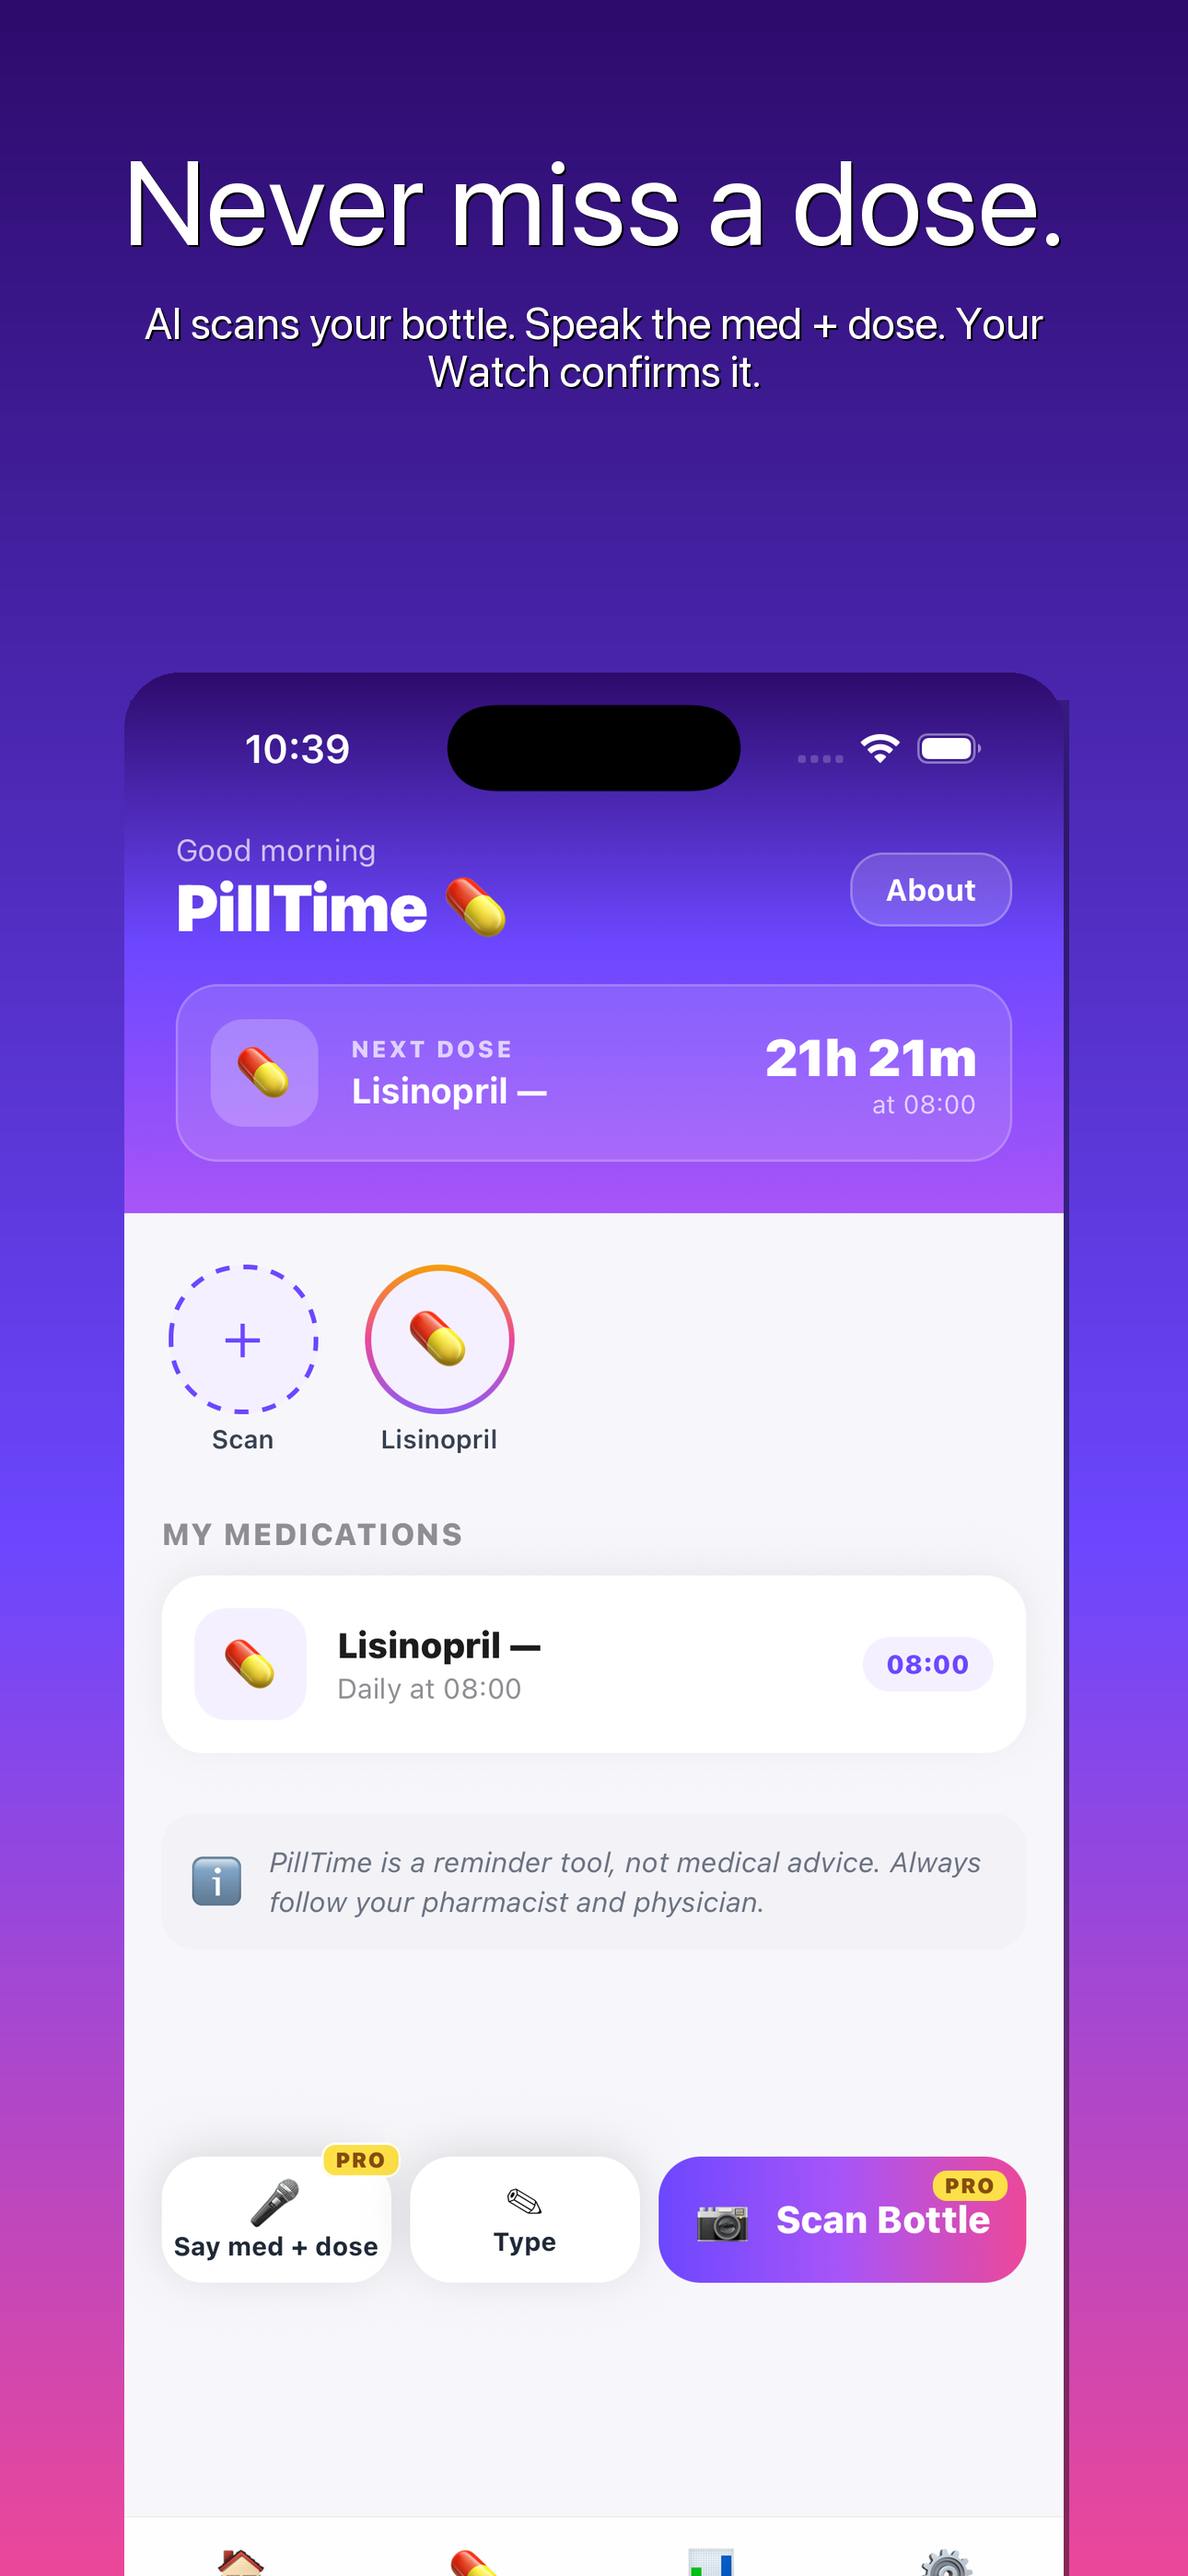
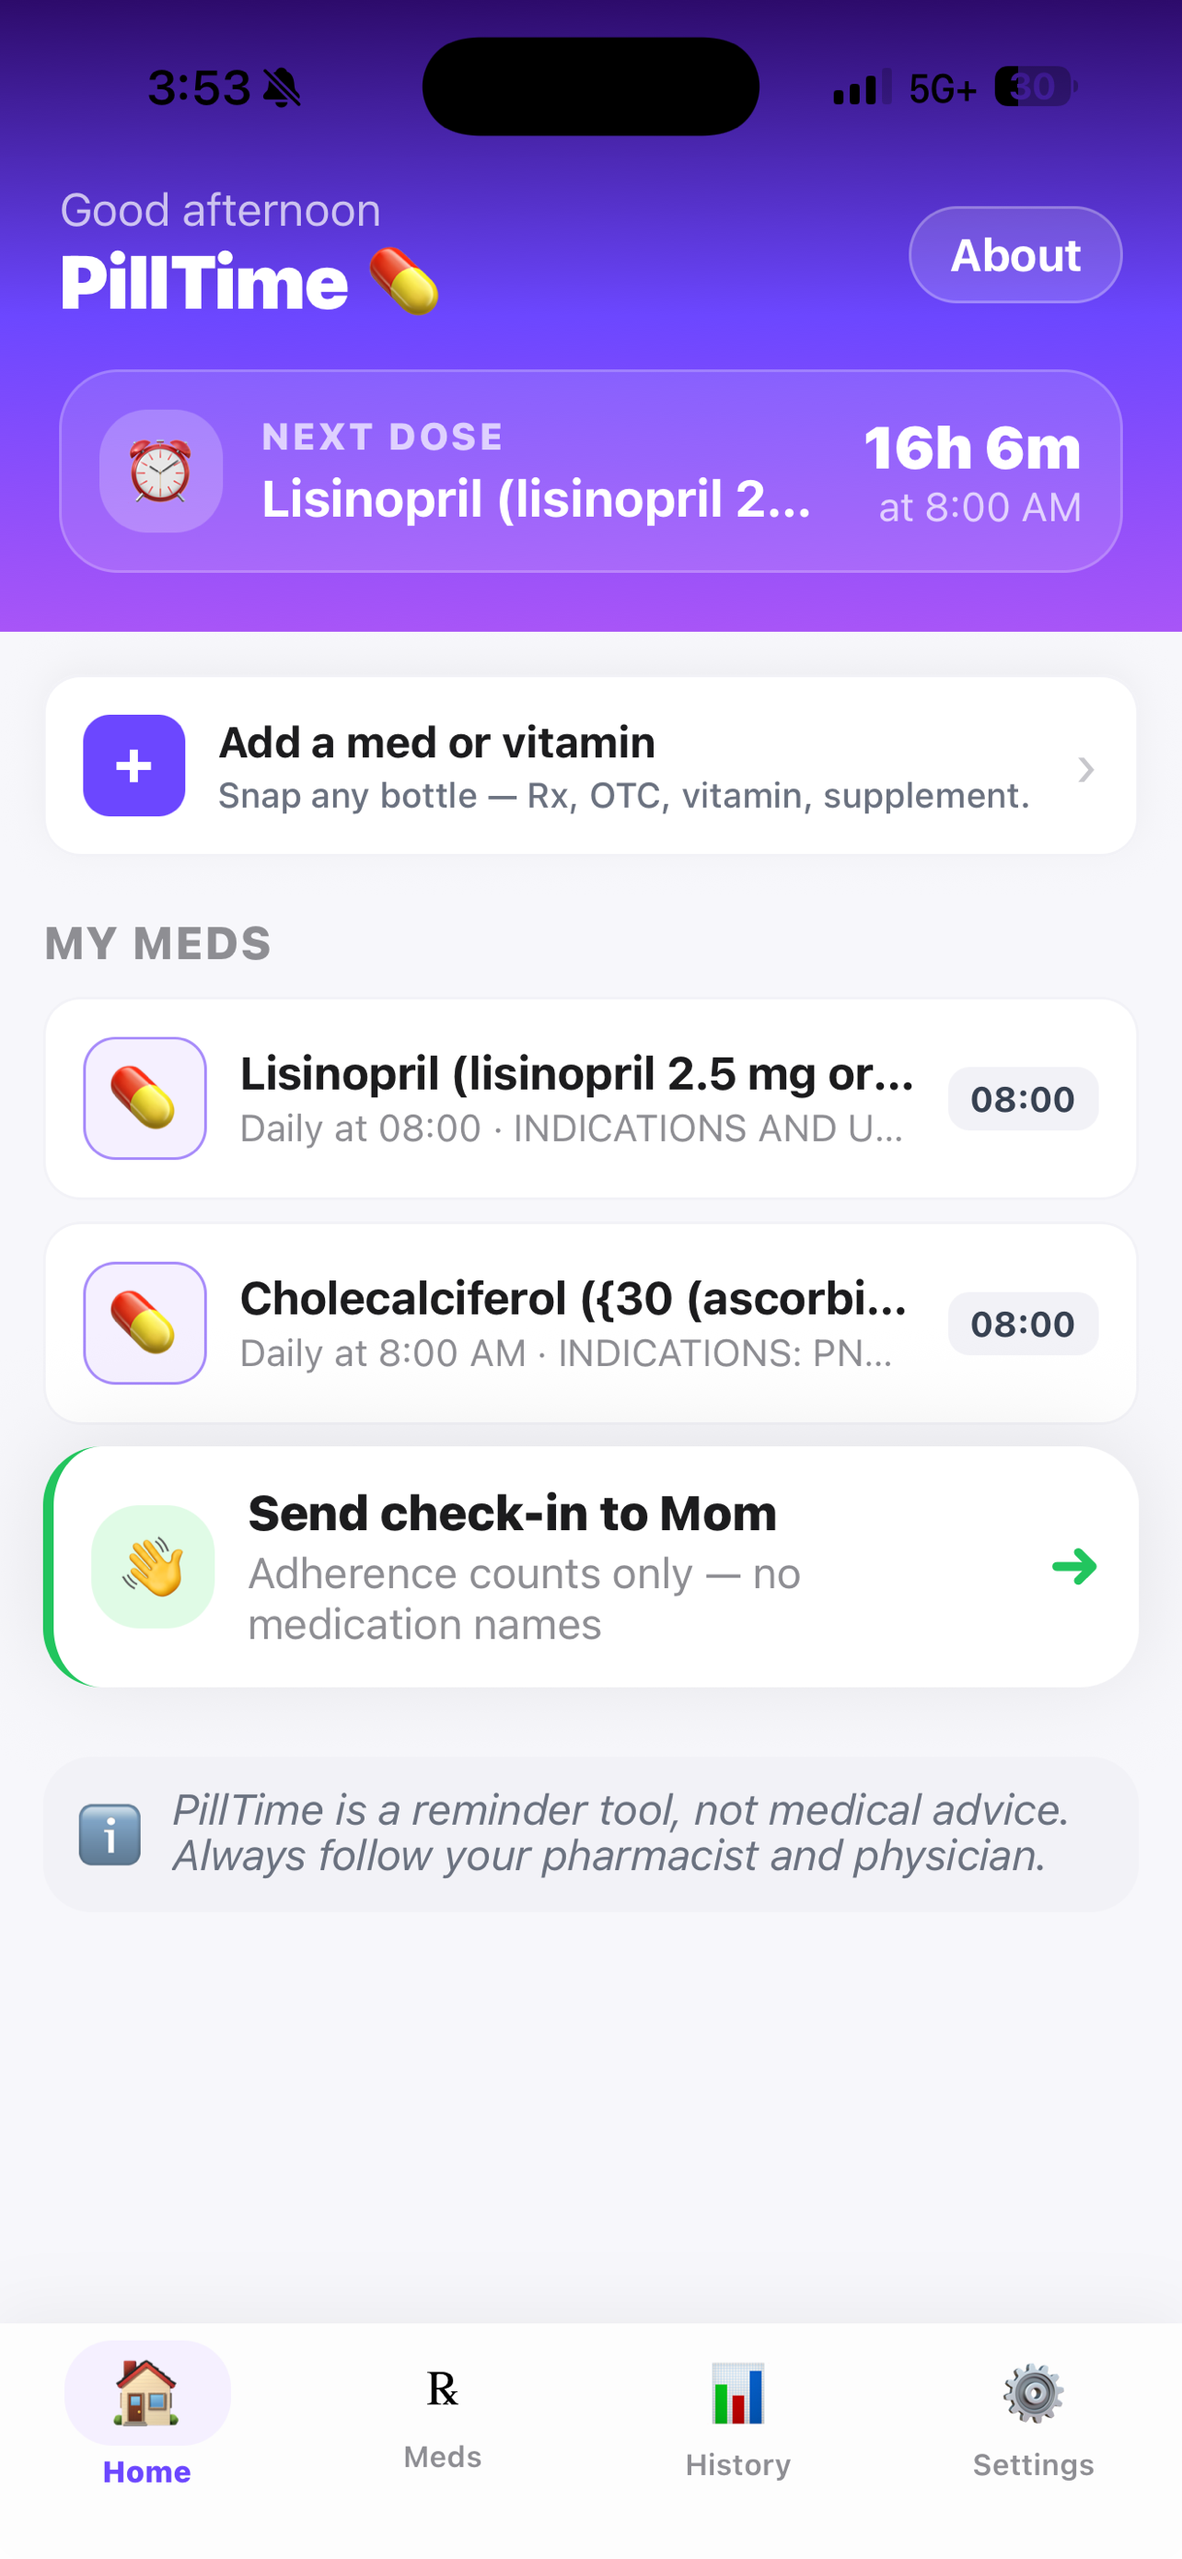
Refresh: real Notes screenshots + What's-New section + bio polish
- Replace PIL mockup screenshots with real iPhone screens from Notes
- Add "What's new" section: bottle-match gate, scroll wheel, insight
  card, faster Gemini→Haiku scanner
- Refresh screenshot captions to match latest UI labels
- Drop "Practicing" from Brett's bio header

diff --git a/index.html b/index.html
@@ -137,6 +137,43 @@
       margin: 6px auto 18px !important;
       letter-spacing: -0.3px;
     }
+    .features-grid {
+      display: grid;
+      grid-template-columns: repeat(2, 1fr);
+      gap: 20px;
+      margin-top: 36px;
+    }
+    @media (max-width: 720px) {
+      .features-grid { grid-template-columns: 1fr; }
+    }
+    .feature-card {
+      background: var(--card);
+      border-radius: 20px;
+      padding: 24px 22px;
+      box-shadow: 0 6px 24px rgba(91, 45, 255, 0.06);
+      border: 1px solid rgba(91, 45, 255, 0.06);
+    }
+    .feature-icon {
+      width: 52px; height: 52px;
+      border-radius: 16px;
+      display: flex; align-items: center; justify-content: center;
+      font-size: 26px;
+      margin-bottom: 14px;
+      color: white;
+    }
+    .feature-card h3 {
+      font-size: 18px;
+      font-weight: 800;
+      margin: 0 0 8px;
+      color: var(--ink);
+      letter-spacing: -0.2px;
+    }
+    .feature-card p {
+      font-size: 15px;
+      line-height: 1.6;
+      color: var(--ink-soft);
+      margin: 0;
+    }
 
     section { padding: 64px 0; }
     section h2 {
@@ -328,7 +365,7 @@
           <h3 class="founder-name">Dr. Brett Molina</h3>
           <span class="founder-credentials">MD · CO-FOUNDER</span>
           <p class="founder-bio">
-            Practicing physician and healthcare-software builder on a mission to change the face of healthcare. Brett has built and shipped two full healthcare-software companies that scaled to wildly popular adoption — and his software is currently in active use by one of the largest healthcare companies in America. In the operating room, his passion is for highly detailed, technically demanding surgeries that demand precision. That same precision is what he brings to PillTime: clinical workflow design, regulatory rigor, and the patient-side empathy that lets the app feel less like software and more like a doctor in your pocket.
+            Physician and healthcare-software builder on a mission to change the face of healthcare. Brett has built and shipped two full healthcare-software companies that scaled to wildly popular adoption — and his software is currently in active use by one of the largest healthcare companies in America. In the operating room, his passion is for highly detailed, technically demanding surgeries that demand precision. That same precision is what he brings to PillTime: clinical workflow design, regulatory rigor, and the patient-side empathy that lets the app feel less like software and more like a doctor in your pocket.
           </p>
         </div>
 
@@ -339,6 +376,42 @@
           <p class="founder-bio">
             Practicing physician with a deep focus on patient interaction and solving real-world problems patients face every day at the pharmacy counter, the bedside, and at home. Emon's passion for pharmaceuticals — and for closing the gap between what's prescribed and what's actually taken — is the clinical voice of PillTime. Every reminder, every safety check, every word of guidance was reviewed by him to make sure it's what a doctor would actually say.
           </p>
+        </div>
+      </div>
+    </div>
+  </section>
+
+  <section style="background: linear-gradient(155deg, #f2f4ff 0%, #ffffff 100%);">
+    <div class="container">
+      <div class="kicker">What's new</div>
+      <h2>Built for the way patients actually use it.</h2>
+      <p style="font-size:17px; color:var(--ink-soft); max-width:680px; margin-top:14px;">
+        Every release is shaped by what we see in clinic. Latest:
+      </p>
+
+      <div class="features-grid">
+        <div class="feature-card">
+          <div class="feature-icon" style="background: linear-gradient(135deg, #5B2DFF, #8B5CF6);">🛡</div>
+          <h3>Bottle-match safety gate</h3>
+          <p>Before any reminder is created, the app walks you through the dose strength and frequency printed on your bottle and asks you to confirm it matches what your physician prescribed. Required checkbox. No silent saves. A physician-built check, so a typo doesn't become a missed dose — or the wrong one.</p>
+        </div>
+
+        <div class="feature-card">
+          <div class="feature-icon" style="background: linear-gradient(135deg, #5B2DFF, #8B5CF6);">🎡</div>
+          <h3>Scroll-wheel pill count</h3>
+          <p>Picking the number of pills on hand now uses a smooth scroll wheel — no keyboard typos, no fat-finger fives that should have been twos. Inspired by the dose pickers patients actually trust.</p>
+        </div>
+
+        <div class="feature-card">
+          <div class="feature-icon" style="background: linear-gradient(135deg, #5B2DFF, #8B5CF6);">📈</div>
+          <h3>Your adherence at a glance</h3>
+          <p>Open History and the first thing you see is your own adherence percentage over the last 30 days, with the WHO baseline (~50% of chronic-disease patients miss doses) as context. Real motivation. Screenshot-worthy. Stays on your phone.</p>
+        </div>
+
+        <div class="feature-card">
+          <div class="feature-icon" style="background: linear-gradient(135deg, #5B2DFF, #8B5CF6);">⚡</div>
+          <h3>Faster, cheaper scanner</h3>
+          <p>The bottle scanner now runs on a 1–2 second AI tier with a quality fallback only when the label is genuinely tough — most bottles read instantly. No tier ever phones home with your medication.</p>
         </div>
       </div>
     </div>
@@ -355,23 +428,23 @@
       <div class="gallery">
         <a class="shot" href="screenshots/01-home.png" target="_blank" rel="noopener">
           <img src="screenshots/01-home.png" alt="PillTime Home — Never miss a dose" />
-          <div class="caption">Never miss a dose<small>Home · next-dose timer · scan · speak · type</small></div>
+          <div class="caption">Never miss a dose<small>Home · next-dose countdown · Rx + OTC + vitamin support</small></div>
         </a>
         <a class="shot" href="screenshots/02-scan.png" target="_blank" rel="noopener">
-          <img src="screenshots/02-scan.png" alt="PillTime Scan — Snap any bottle" />
-          <div class="caption">Snap any bottle<small>Multi-angle scan · privacy-first prompts</small></div>
+          <img src="screenshots/02-scan.png" alt="PillTime — three ways to add a med" />
+          <div class="caption">Three ways to add a med<small>Scan the bottle · say it out loud · type it in</small></div>
         </a>
         <a class="shot" href="screenshots/03-info.png" target="_blank" rel="noopener">
-          <img src="screenshots/03-info.png" alt="PillTime Meds — Your meds, tracked" />
-          <div class="caption">Your meds, tracked<small>Adherence · pills-left · pronounce · savings</small></div>
+          <img src="screenshots/03-info.png" alt="PillTime Drug Info — Doctor-built AI Q&amp;A" />
+          <div class="caption">Doctor-built Q&amp;A<small>Drug info chat · grounded in FDA &amp; NIH · never a substitute for your physician</small></div>
         </a>
         <a class="shot" href="screenshots/04-about.png" target="_blank" rel="noopener">
-          <img src="screenshots/04-about.png" alt="PillTime About — The problem we're fixing" />
-          <div class="caption">The problem we're fixing<small>125K deaths · $300B cost · 50% miss doses · Zero PHI</small></div>
+          <img src="screenshots/04-about.png" alt="PillTime About — Built by doctors" />
+          <div class="caption">Built by doctors<small>125K deaths · $300B cost · 50% miss doses · Zero PHI</small></div>
         </a>
         <a class="shot" href="screenshots/05-doctor.png" target="_blank" rel="noopener">
           <img src="screenshots/05-doctor.png" alt="PillTime Doctor Visit — Hand your doctor your meds" />
-          <div class="caption">Hand your doctor your meds<small>Shareable summary · zero PHI · AirDrop/email/print</small></div>
+          <div class="caption">Doctor visit in 30 seconds<small>Shareable summary · AirDrop · email · print</small></div>
         </a>
       </div>
 
